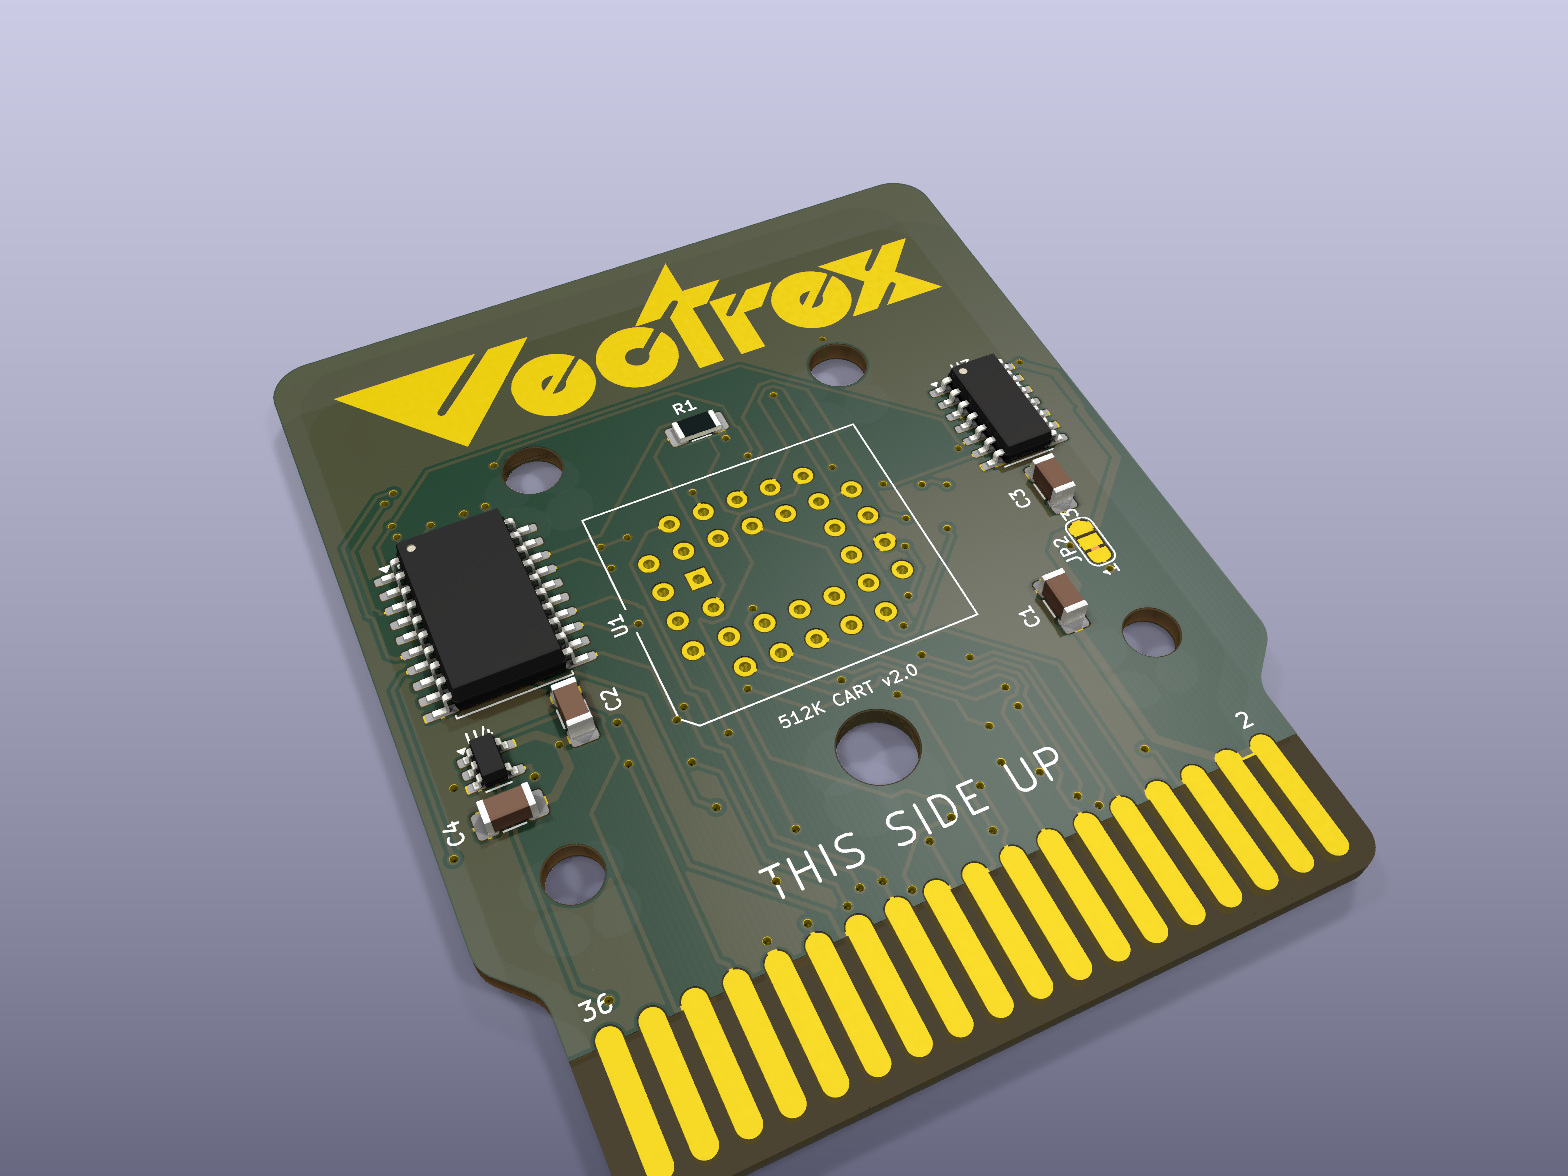
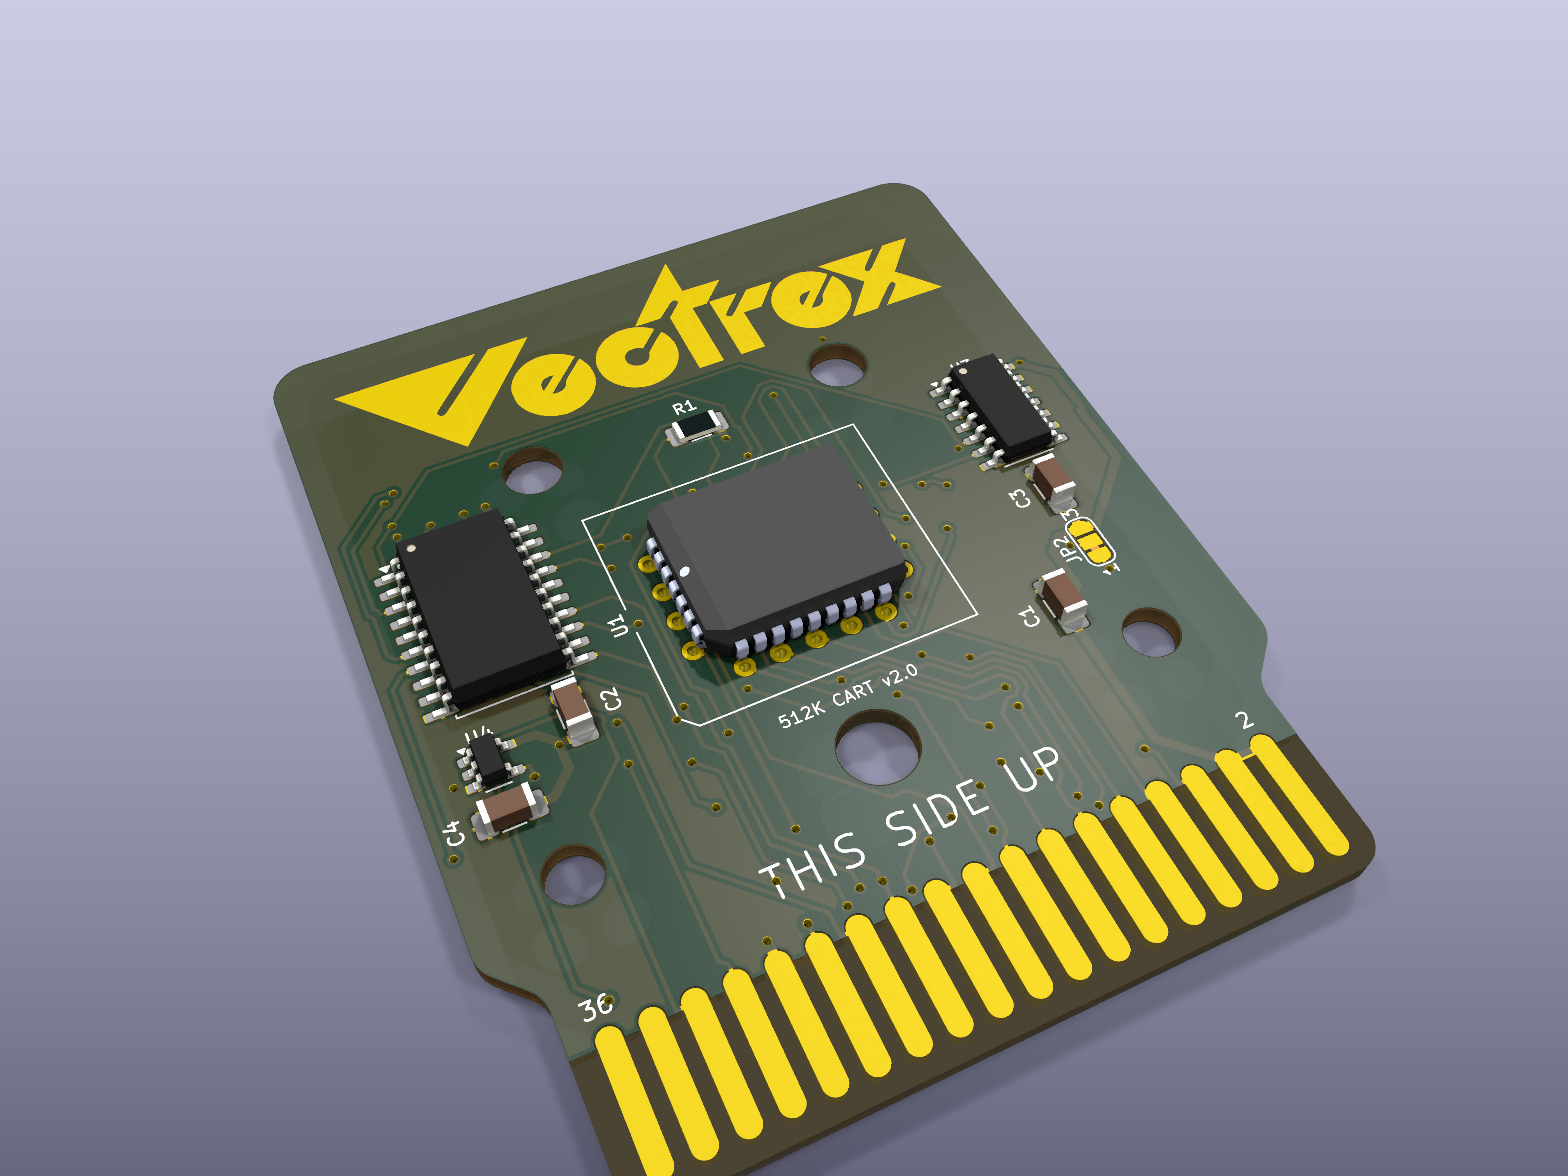
512K board: renders with the SST39SF040 in place

Changed region(s): [[0.4062, 0.398, 0.5938, 0.5816]]

diff --git a/boards/v2_512k_flash/README.md b/boards/v2_512k_flash/README.md
@@ -8,6 +8,8 @@
 **Schematic:** [images/schematic.svg](images/schematic.svg) (drawn from the board's own connections) -
 **copper:** [front](images/pcb_front.svg), [back](images/pcb_back.svg).
 
+(The renders show the flash with its maker's 3D model; the board file itself refers to KiCad's PLCC-32 socket model.)
+
 Built from the v1 64K board (`../v1_27c512_64k`): the same outline, edge fingers, Vectrex
 logos (front and back), mounting holes, GND fill and "THIS SIDE UP". 54 x 66 mm, 2 layers.
 
